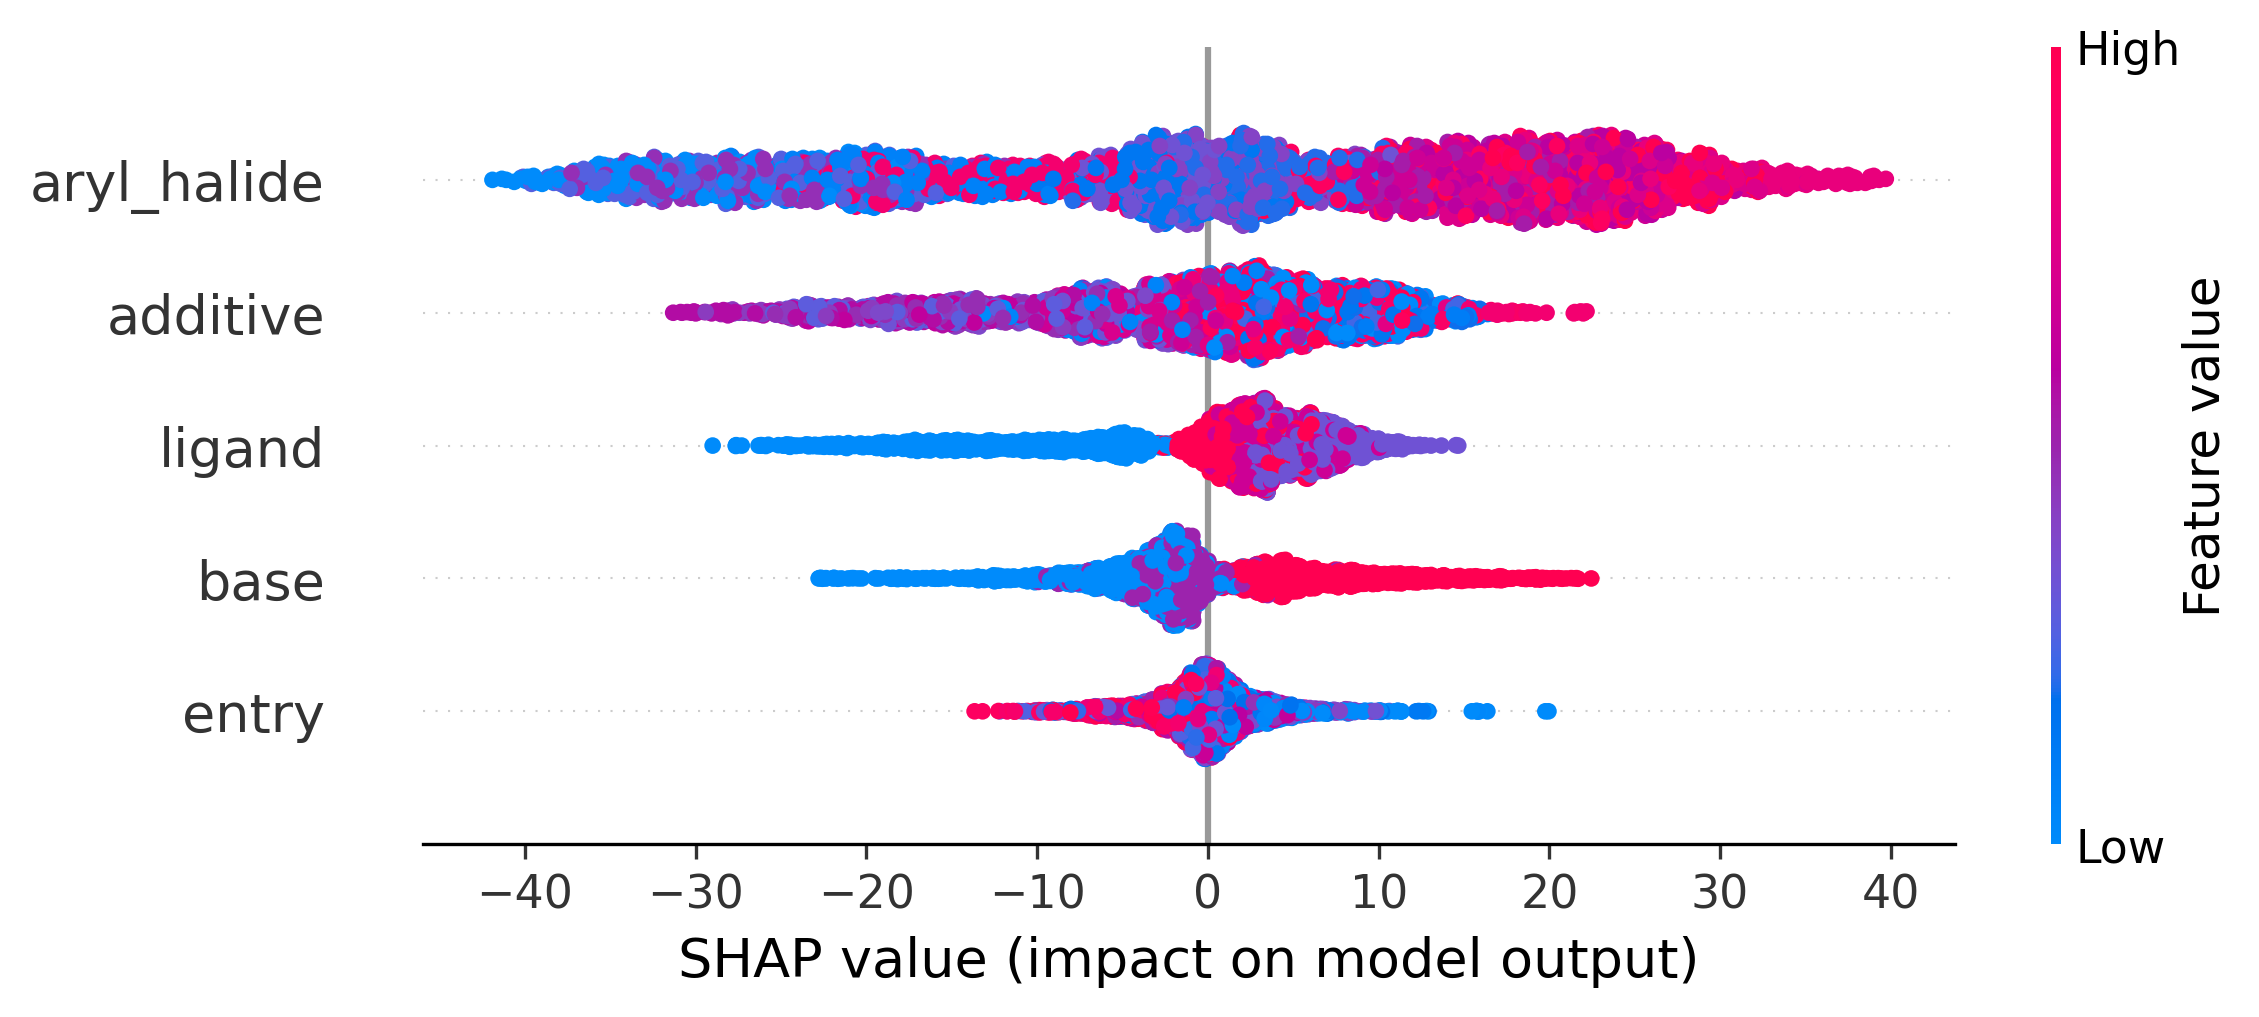
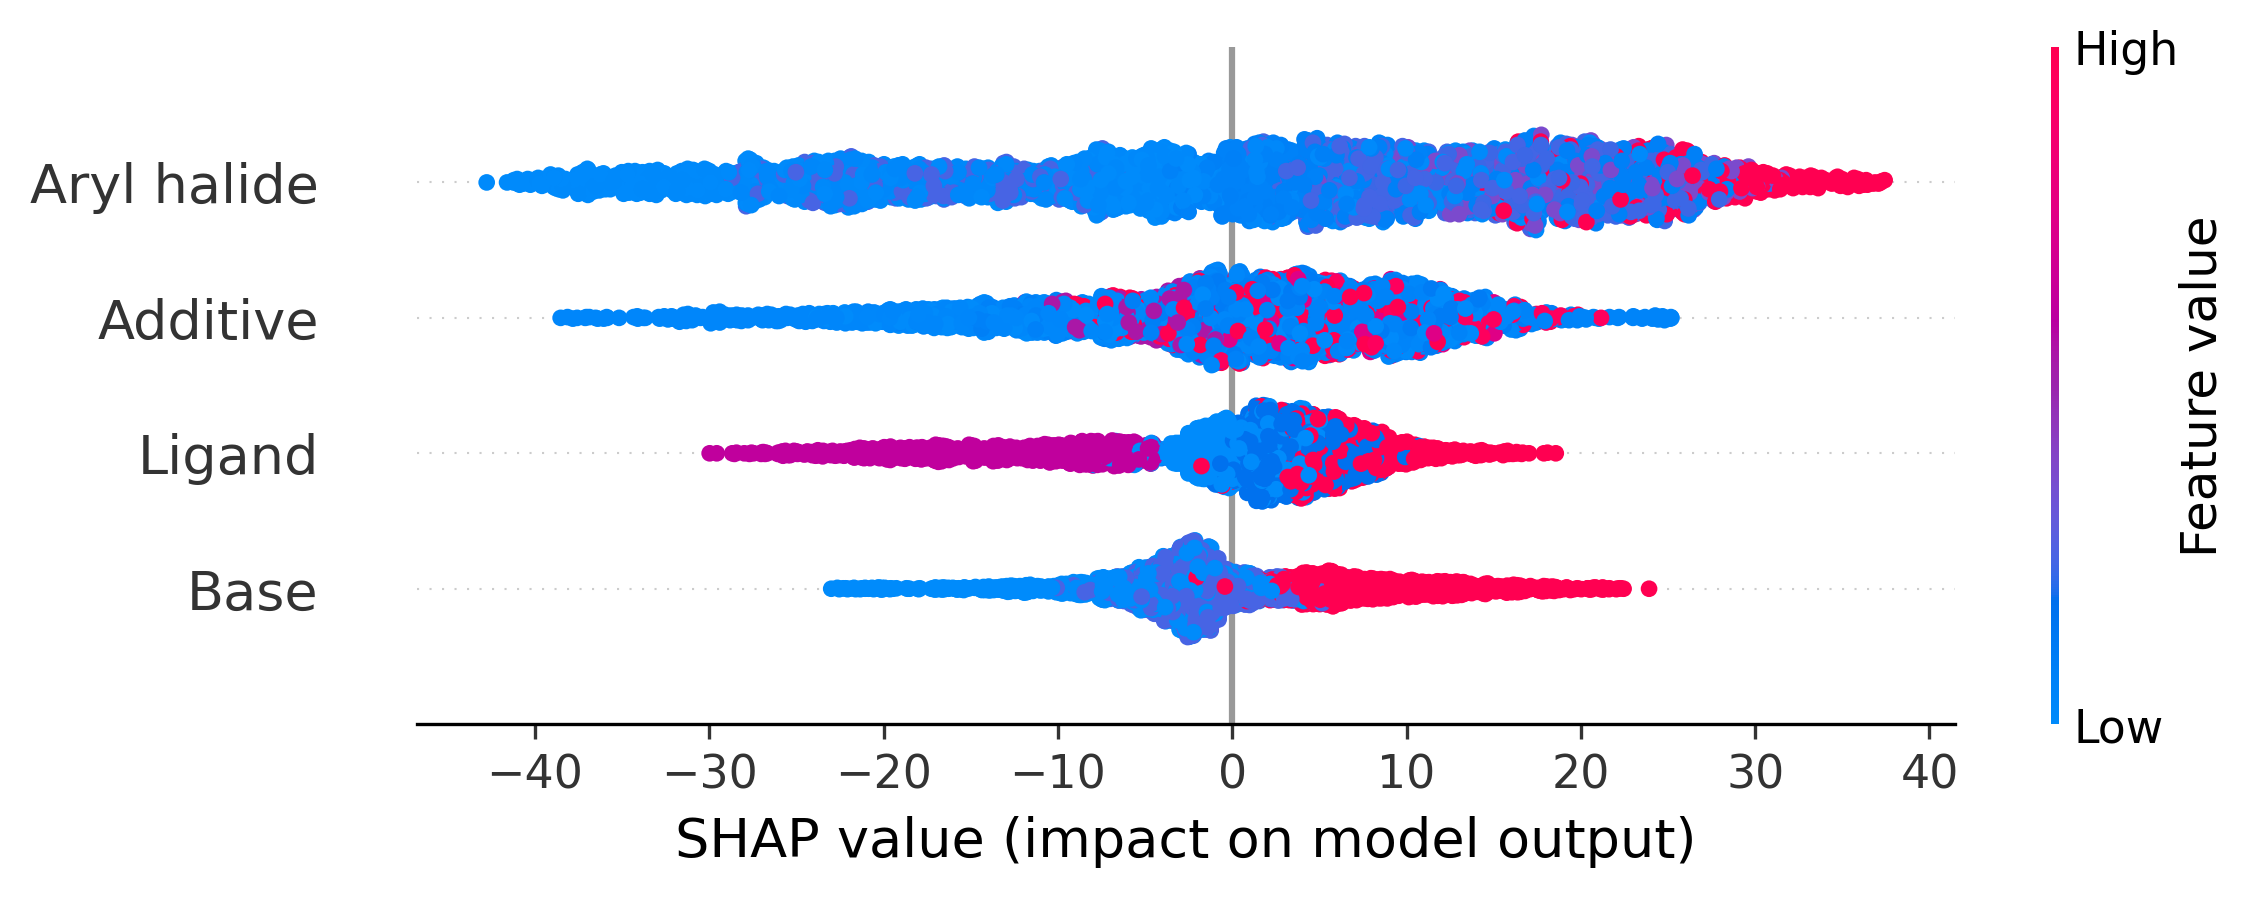
Add new model report and update analysis outputs
Added a new folder with model interpretation report, plots, and analysis outputs for a Random Forest model. Updated existing report and plot files with results for a different dataset, and renamed pdp-shap-html.py to RF-pdp-shap-html.py for clarity.

diff --git a/modules/new/Nuova cartella/model_report.html b/modules/new/Nuova cartella/model_report.html
@@ -3,7 +3,7 @@
     <head><title>Model Interpretation Report</title></head>
     <body>
     <h1>Model Interpretation Report</h1>
-    <h2>Processed filename: grunwald2.csv</h2><h1>Model fitting</h1><br>Data are fitted with a <strong>Random Forest</strong> Algorithm. <br>Values of fitting are displayed below:<br>R<sup>2</sup>:0.9843188012462979<br>MAE :2.3167815878937934<br>RMSE :3.4170979118036113<br>Cross-validated R<sup>2</sup> scores:<br>[0.86433422 0.85359918 0.86889361 0.85674034 0.86867472]<br>Mean R<sup>2</sup> :0.8624484161976003<br><h3>Residuals</h3>The residual graph should appear like random distributed points<br><img src="RF_residues.png" width="600"><br><br>Below the parameters sorted from the most important to the less important<br><img src="RF_feature_importance.png" width="600"><br><br><h2>Partial Dependence Plots (Main Effects)</h2>
+    <h2>Processed filename: grunwald2log.csv</h2><h1>Model fitting</h1><br>Data are fitted with a <strong>Random Forest</strong> Algorithm. <br>Values of fitting are displayed below:<br>R<sup>2</sup>:0.9773689039310846<br>MAE :0.06730145306799178<br>RMSE :0.11786549095684251<br>Cross-validated R<sup>2</sup> scores:<br>[0.82281945 0.81250005 0.81248501 0.80495577 0.83838301]<br>Mean R<sup>2</sup> :0.8182286592758728<br><h3>Residuals</h3>The residual graph should appear like random distributed points<br><img src="RF_residues.png" width="600"><br><br>Below the parameters sorted from the most important to the less important<br><img src="RF_feature_importance.png" width="600"><br><br><h2>Partial Dependence Plots (Main Effects)</h2>
     <h3>Features</h3>
     <p>This plot shows how the feature affects the model's prediction on average, keeping all other features constant.</p>
     <img src="pdp_feature.png" width="600"><br>
